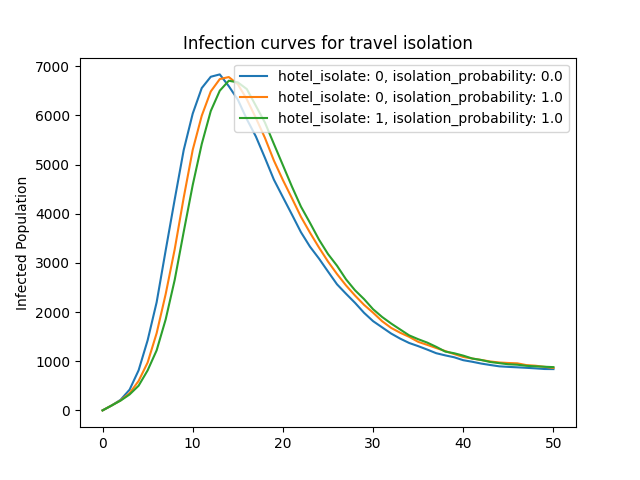
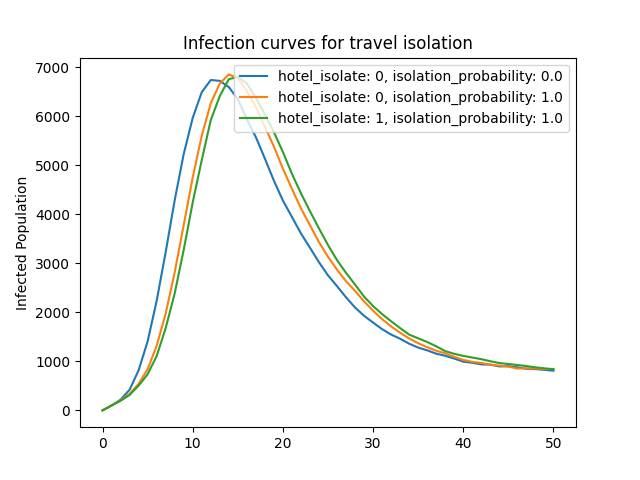
make single household a isolation household if traveller isolates there

diff --git a/pyEpiabm/pyEpiabm/intervention/travel_isolation.py b/pyEpiabm/pyEpiabm/intervention/travel_isolation.py
@@ -74,6 +74,10 @@ class TravelIsolation(AbstractIntervention):
                                     selected_household = random.choice(
                                         existing_households)
                                     selected_household.add_person(person)
+                                else:
+                                    person.household.isolation_location = \
+                                        False
+
                 else:
                     if self.person_selection_method(person):
                         r = random.random()
@@ -91,6 +95,11 @@ class TravelIsolation(AbstractIntervention):
                                         person])
                                     person.household.isolation_location = \
                                         True
+                                else:
+                                    # Current single household is my isolation
+                                    # household
+                                    person.household.isolation_location = \
+                                        True
 
                             person.travel_isolation_start_time = time + \
                                 self.isolation_delay
@@ -103,6 +112,7 @@ class TravelIsolation(AbstractIntervention):
         Parameters
         ----------
         person : Person
+            Instance of the Person class
 
         Returns
         -------

diff --git a/pyEpiabm/pyEpiabm/tests/test_unit/test_intervention/test_travel_isolation.py b/pyEpiabm/pyEpiabm/tests/test_unit/test_intervention/test_travel_isolation.py
@@ -72,11 +72,24 @@ class TestTravelIsolation(TestPyEpiabm):
         self.assertEqual(len(self.person_symp.household.persons), 2)
         self.assertEqual(len(self.person_introduced.household.persons), 1)
 
-        # Out of travel_isolation assign back to household
+        # Out of travel_isolation (after 5 days) assign back to household
         self.travelisolation(time=20)
         self.assertIsNone(self.person_introduced.travel_isolation_start_time)
         self.assertEqual(len(self._microcell.households), 1)
         self.assertEqual(len(self.person_symp.household.persons), 3)
+
+        # Introduce individual in single household
+        self._microcell.add_people(
+            1, status=InfectionStatus.InfectASympt, age_group=7)
+        person_introduced2 = self._microcell.persons[3]
+        self._population.travellers.append(person_introduced2)
+        self._microcell.add_household([person_introduced2])
+        person_introduced2.travel_end_time = 40
+        self.travelisolation(time=21)
+        self.assertTrue(person_introduced2.household.isolation_location)
+        mock_random.return_value = 1
+        self.travelisolation(time=28)
+        self.assertFalse(person_introduced2.household.isolation_location)
 
     @mock.patch('random.random')
     def test_person_selection(self, mock_random):

diff --git a/python_examples/intervention_example/travel_isolation_simulation_flow.py b/python_examples/intervention_example/travel_isolation_simulation_flow.py
@@ -32,7 +32,6 @@ pe.Parameters.set_file(os.path.join(os.path.dirname(__file__),
 # Parameter to change
 to_modify_parameter_values = {'isolation_probability': [0.0, 1.0],
                               'hotel_isolate': [1]}
-# to_modify_parameter_values = {'hotel_isolate': [1.0]}
 for to_modify_parameter, parameter_values in to_modify_parameter_values.\
         items():
     # if to_modify_parameter == 'isolation_probability':
